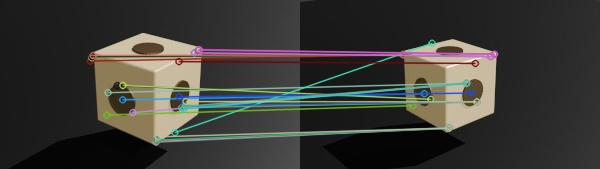
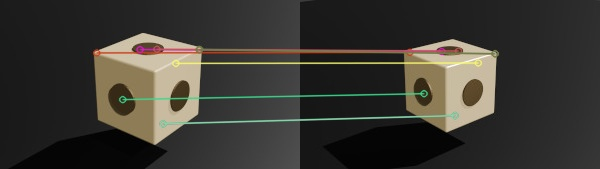
ajout Readme et mise en évidence paramètres de base des algos dans la classe

Changed region(s): [[0.15, 0.4734, 0.81, 0.858], [0.12, 0.2367, 0.84, 0.4438], [0.54, 0.4438, 0.57, 0.4734]]

diff --git a/main.py b/main.py
@@ -10,7 +10,9 @@ class ImageProcessor:
     de les relier entre eux puis de calculer la matrice fondamentale et la matrice essentielle.
     """
     
-    def __init__(self) -> None:
+    def __init__(self, nom1:str, nom2:str) -> None:
+        self.nom1: str = nom1
+        self.nom2: str = nom2
         self.im1 = None
         self.im2 = None
         self.im1_gris = None
@@ -20,90 +22,91 @@ class ImageProcessor:
         self.des1 = None
         self.des2 = None
         self.matches = None
-        self.ratio_pour_matching = 0.654375
+        self.ratio_de_correspondance = 0.62
+        self.sigma = 1.35
+        self.octaveLayers = 2
+        self.seuil_de_contraste = 0.050375
+        self.seuil_d_aretes = 10
+        self.max_features = 100
 
     # Load the image
-    def load_images(self):
+    def load_images(self) -> None:
         """
-        Load two images: new1.jpg and new2.jpg from the current folder
-        
-        Returns:
-            tuple: (image1, image2) - Both images as numpy arrays in BGR format
+        Charge les deux images à partir des noms de fichiers fournis.
         """
         try:
-            image1 = cv2.imread('lit1.jpg')                
-            image2 = cv2.imread('lit3.jpg')
+            image1 = cv2.imread(self.nom1)                
+            image2 = cv2.imread(self.nom2)
             
             print(f"images correctement chargées :")
-            print(f"new1.jpg shape: {image1.shape} size:{image1.size}")
-            print(f"new2.jpg shape: {image2.shape} size:{image1.size}")
+            print(f"{self.nom1} shape: {image1.shape} size:{image1.size}")
+            print(f"{self.nom2} shape: {image2.shape} size:{image2.size}")
             
             self.im1 = image1
             self.im2 = image2
             
-            self.im1_gris = cv2.cvtColor(image1, cv2.COLOR_BGR2GRAY)
-            self.im2_gris = cv2.cvtColor(image2, cv2.COLOR_BGR2GRAY)
-            
-            return image1, image2
+            self.im1_gris:cv2.typing.MatLike | None = cv2.cvtColor(image1, cv2.COLOR_BGR2GRAY)
+            self.im2_gris:cv2.typing.MatLike | None = cv2.cvtColor(image2, cv2.COLOR_BGR2GRAY)
         
         except FileNotFoundError as e:
-            print(f"EXCEPTION: {e}")
-            return None, None
+            print(f"EXCEPTION: {e}")            
         except Exception as e:
             print(f"EXCEPTION Unexpected error: {e}")
-            return None, None
         
         
-    def detect_sift_with_params(self, nfeatures=0 , nOctaveLayers=6, contrastThreshold=0.05, 
-                                edgeThreshold=10, sigma=1.4)-> tuple[Any, Any, Any, Any]:
+    def detect_sift_with_params(self) -> None:
             """Détecte les points SIFT avec paramètres personnalisés"""
-            sift = cv2.SIFT_create(
-                nfeatures=nfeatures,
-                nOctaveLayers=nOctaveLayers,
-                contrastThreshold=contrastThreshold,
-                edgeThreshold=edgeThreshold,
-                sigma=sigma
+            sift:Any = cv2.SIFT_create( # type: ignore
+                nfeatures=self.max_features,
+                nOctaveLayers=self.octaveLayers,
+                contrastThreshold=self.seuil_de_contraste,
+                edgeThreshold=self.seuil_d_aretes,
+                sigma=self.sigma
             )
             
             # Détection des keypoints et descripteurs
-            kp1, des1 = sift.detectAndCompute(self.im1_gris, None)
-            kp2, des2 = sift.detectAndCompute(self.im2_gris, None)
+            kp1, des1 = sift.detectAndCompute(self.im1_gris, None) # type: ignore
+            kp2, des2 = sift.detectAndCompute(self.im2_gris, None) # type: ignore
             
-            self.kp1 = kp1
-            self.kp2 = kp2
-            self.des1 = des1
-            self.des2 = des2
+            self.kp1 = kp1 # type: ignore
+            self.kp2 = kp2 # type: ignore
+            self.des1 = des1 # type: ignore
+            self.des2 = des2 # type: ignore
             
     def affiche_images(self) -> None:
         # Affichage des images
-        plt.figure(figsize=(13, 10))
-        plt.subplot(2, 2, 1)
-        plt.imshow(cv2.cvtColor(self.im1, cv2.COLOR_BGR2RGB))
-        plt.title('Image 1')
-        plt.axis('off')
-        plt.subplot(2, 2, 2)
-        plt.imshow(cv2.cvtColor(self.im2, cv2.COLOR_BGR2RGB))
-        plt.title('Image 2')
-        plt.axis('off')
-        plt.subplot(2, 2, 3)
-        plt.imshow(cv2.cvtColor(self.im1_gris, cv2.COLOR_BGR2RGB))
-        plt.title('Image 2')
-        plt.axis('off')
-        plt.subplot(2, 2, 4)
-        plt.imshow(cv2.cvtColor(self.im2_gris, cv2.COLOR_BGR2RGB))
-        plt.title('Image 2')
-        plt.axis('off')
-        plt.show()
+        plt.figure(figsize=(13, 10)) # type: ignore
+        plt.subplot(2, 2, 1) # type: ignore
+        plt.imshow(cv2.cvtColor(self.im1, cv2.COLOR_BGR2RGB)) # type: ignore
+        plt.title('Image 1') # type: ignore
+        plt.axis('off') # type: ignore
+        plt.subplot(2, 2, 2) # type: ignore
+        plt.imshow(cv2.cvtColor(self.im2, cv2.COLOR_BGR2RGB)) # type: ignore
+        plt.title('Image 2') # type: ignore
+        plt.axis('off') # type: ignore
+        plt.subplot(2, 2, 3) # type: ignore
+        plt.imshow(cv2.cvtColor(self.im1_gris, cv2.COLOR_BGR2RGB)) # type: ignore
+        plt.title('Image 2') # type: ignore
+        plt.axis('off') # type: ignore
+        plt.subplot(2, 2, 4) # type: ignore
+        plt.imshow(cv2.cvtColor(self.im2_gris, cv2.COLOR_BGR2RGB)) # type: ignore
+        plt.title('Image 2') # type: ignore
+        plt.axis('off') # type: ignore
+        plt.show() # type: ignore
         
     def afficheKP(self) -> None:
         # Affichage des keypoints
-        plt.figure(figsize=(13, 10))
+        plt.figure(figsize=(13, 10)) # type: ignore
         plt.subplot(2, 2, 1)
-        plt.imshow(cv2.drawKeypoints(self.im1_gris, self.kp1, None, flags=cv2.DRAW_MATCHES_FLAGS_DRAW_RICH_KEYPOINTS))
+        image_kp_1 = cv2.drawKeypoints(self.im1_gris, self.kp1, None, flags=cv2.DRAW_MATCHES_FLAGS_DRAW_RICH_KEYPOINTS)
+        cv2.imwrite("image_kp_1.jpg", image_kp_1)
+        plt.imshow(image_kp_1)
         plt.title('Image 1')
         plt.axis('off')
         plt.subplot(2, 2, 2)
-        plt.imshow(cv2.drawKeypoints(self.im2_gris, self.kp2, None, flags=cv2.DRAW_MATCHES_FLAGS_DRAW_RICH_KEYPOINTS))
+        image_kp_2 = cv2.drawKeypoints(self.im2_gris, self.kp2, None, flags=cv2.DRAW_MATCHES_FLAGS_DRAW_RICH_KEYPOINTS)
+        cv2.imwrite("image_kp_2.jpg", image_kp_2)
+        plt.imshow(image_kp_2)
         plt.title('Image 2')
         plt.axis('off')
         plt.show()
@@ -114,23 +117,23 @@ class ImageProcessor:
             
         # FLANN matcher pour associer les descripteurs des deux images obtenus avec l'alglorithme SIFT
         FLANN_INDEX_KDTREE = 1
-        index_params:cv2.typing.IndexParams = dict(algorithm=FLANN_INDEX_KDTREE, trees=8)
+        index_params:cv2.typing.IndexParams = dict(algorithm=FLANN_INDEX_KDTREE, trees=5)
         search_params:cv2.typing.SearchParams = dict(checks=100)
         flann = cv2.FlannBasedMatcher(index_params, search_params)
         
         try:
-            matches:Any = flann.knnMatch(self.des1, self.des2, k=2)
+            matches = flann.knnMatch(self.des1, self.des2, k=2) # type: ignore
             
             good_matches: list[Any] = []
             cpt_paires_invalides = 0
             cpt_paires_valides = 0
                         
             # Test de ratio de Lowe
-            for match_pair in matches:
-                if len(match_pair) == 2:
+            for match_pair in matches: # type: ignore
+                if len(match_pair) == 2: # type: ignore
                     cpt_paires_valides += 1
                     m , n = match_pair
-                    if m.distance < self.ratio_pour_matching * n.distance:
+                    if m.distance < self.ratio_de_correspondance * n.distance:
                         good_matches.append(m)
                 else:
                     cpt_paires_invalides += 1
@@ -141,9 +144,9 @@ class ImageProcessor:
         
     def affiche_matches(self) -> None:
         # creer l'image des matches
-        img_matches = cv2.drawMatches(self.im1, self.kp1, self.im2, self.kp2, 
-                                        self.matches, None, 
-                                        flags=cv2.DrawMatchesFlags_NOT_DRAW_SINGLE_POINTS)
+        img_matches = cv2.drawMatches(self.im1, self.kp1, self.im2, self.kp2, # type: ignore
+                                        self.matches, None, # type: ignore
+                                        flags=cv2.DrawMatchesFlags_NOT_DRAW_SINGLE_POINTS) # type: ignore
         # Affichage de l'image des matches
         plt.figure(figsize=(13, 10))
         plt.imshow(img_matches)
@@ -155,13 +158,13 @@ class ImageProcessor:
             
 
 def main() -> None:
-    ip = ImageProcessor()
+    ip = ImageProcessor("lit1.jpg", "lit3.jpg")
     ip.load_images()
     ip.detect_sift_with_params()
     ip.match_keypoints()
+    ip.afficheKP()
     ip.affiche_matches()
     #ip.affiche_images()
-    #ip.afficheKP()
     
 main()
     

diff --git a/README.md b/README.md
@@ -1,0 +1,27 @@
+# Introduction :
+
+Cette application permet de charger deux images, d'en extraire les points clés, 
+puis d'associer entre eux les points clés qui représentent le même lieu dans les deux images.
+
+# Utilisation :
+
+* cloner ce dépôt dans un répertoire sur votre machine
+* exécuter VSCode dans ce répertoire
+* installer un environnement virtuel python
+* installer les dépendances du projet en exécutant la commande :
+```shell
+pip install -r requirements
+```
+* déboguer ou exécuter le programme
+
+# Détails :
+
+Le fichier [`notes.txt`](./notes.txt) contient les différentes valeurs de paramètres pour l'algorithme
+SIFT de recherche de points clés et pour l'algorithme FLANN Matcher permettant d'associer les points clés des deux images.
+
+# résultat :
+
+![matches](./doc/matches.jpg)
+
+
+<sub>28 mai 2025</sub>
